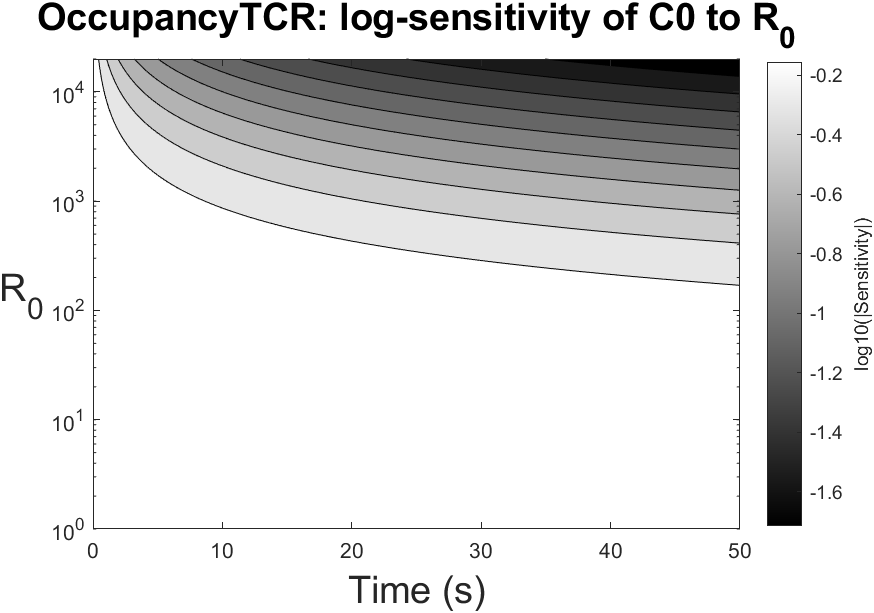
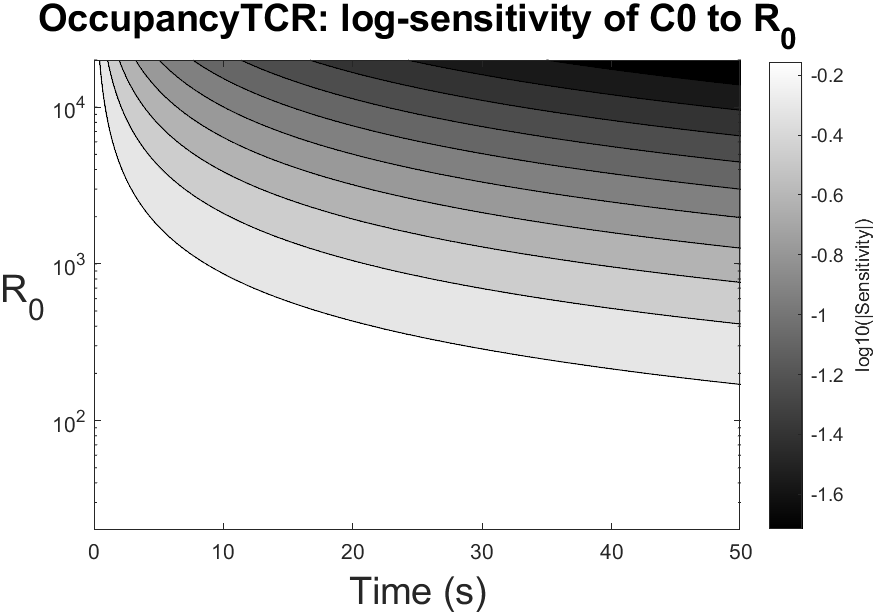
Refactor IC sampling vars and range setup
Rename and centralize initial-condition sampling variables to avoid clashing with parameter sampling: number_samples -> number_samplesICs and param_ranges -> param_rangesICs across v.6/models/OccupancyTCR_options.m and v.6/src/sensitivityICs.m. Set default model.range_typeICs to 2 and adjust the IC range cell layout (use semicolon) so IC ranges are defined as separate entries. Update sensitivityICs to use the new names for generating state vectors, sizing results_matrix, loop bounds, and waitbar progress. Also replace two generated sensitivity images under v.6/results/SensitivityICs_Images_OccupancyTCR_gray.

diff --git a/v.6/src/sensitivityICs.m b/v.6/src/sensitivityICs.m
@@ -21,22 +21,22 @@ function sensitivityICs(model, opts, ode_function)
     if model.range_typeICs == 1
 
         % Points within the range of sensitivity
-        stateVect = logspace(rango_min, log10(rango_max), model.number_samples);
+        stateVect = logspace(rango_min, log10(rango_max), model.number_samplesICs);
 
     elseif model.range_typeICs == 2
     
-        model.number_samples = 1000;
-        stateVect = model.param_ranges;
+        model.number_samplesICs = 1000;
+        stateVect = model.param_rangesICs;
 
     elseif model.range_typeICs == 3
 
-        stateVect = model.param_ranges;
+        stateVect = model.param_rangesICs;
     
     end   
 
     
 
-    results_matrix = zeros(model.number_samples, length(model.tspan));
+    results_matrix = zeros(model.number_samplesICs, length(model.tspan));
 
     if opts.usar_paralelo
     
@@ -47,7 +47,7 @@ function sensitivityICs(model, opts, ode_function)
         rel_tol = opts.rel_tol;
         abs_tol = opts.abs_tol;
 
-        parfor i = 1:model.number_samples
+        parfor i = 1:model.number_samplesICs
 
             local_states = Original_x0;
             local_states(nIC) = stateVect(i);
@@ -63,7 +63,7 @@ function sensitivityICs(model, opts, ode_function)
         end
     else
 
-        for i = 1:model.number_samples
+        for i = 1:model.number_samplesICs
             
             % No modifico el original, hago una copia cada vez
             local_states = Original_x0;
@@ -84,9 +84,9 @@ function sensitivityICs(model, opts, ode_function)
             results_matrix(i, :) = normalized;
             
             % Poniendo el número en el que está del sample
-            %waitbar(i / model.number_samples, h, sprintf('Computing IC sample %d of %d...', i, model.number_samples));
+            %waitbar(i / model.number_samplesICs, h, sprintf('Computing IC sample %d of %d...', i, model.number_samplesICs));
             % Sin él
-            waitbar(i / model.number_samples, h, sprintf('Computing...'));
+            waitbar(i / model.number_samplesICs, h, sprintf('Computing...'));
 
         end
 

diff --git a/v.6/models/OccupancyTCR_options.m b/v.6/models/OccupancyTCR_options.m
@@ -35,7 +35,7 @@ elseif model.range_type == 2
 elseif model.range_type == 3
 
     model.param_ranges = {
-        4e-6:1e-6:2e-2, ...
+        4e-6:1e-6:2e-2; ...
         0.001:0.001:1
     };
 
@@ -47,25 +47,25 @@ model.x0 = [0, 100, 2e4];
 model.state_names = {'C0', 'L', 'R'};
 model.ICs_ranges = [0 2e4];
 
-model.range_typeICs = 1;
+model.range_typeICs = 2;
 
 if model.range_typeICs == 1
 
     % How many points you would like to compute within the default range
-    model.number_samples = 1000;
+    model.number_samplesICs = 1000;
 
 elseif model.range_typeICs == 2
 
-    model.number_samples = 1000;
+    model.number_samplesICs = 1000;
 
-    model.param_ranges = logspace(model.ICs_ranges(1), log10(model.ICs_ranges(2)), model.number_samples);
+    model.param_rangesICs = logspace(model.ICs_ranges(1), log10(model.ICs_ranges(2)), model.number_samplesICs);
 
-    model.param_ranges = linspace(model.ICs_ranges(1), model.ICs_ranges(2), model.number_samples);
+    model.param_rangesICs = linspace(model.ICs_ranges(1), model.ICs_ranges(2), model.number_samplesICs);
 
 elseif model.range_typeICs == 3
 
-    model.param_ranges = (model.ICs_ranges(1):200:model.ICs_ranges(2));   
-    model.number_samples = length(model.param_ranges);
+    model.param_rangesICs = (model.ICs_ranges(1):200:model.ICs_ranges(2));   
+    model.number_samplesICs = length(model.param_rangesICs);
 
 end   
 
